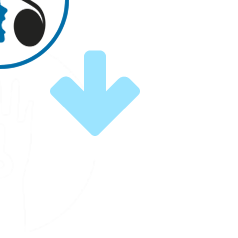
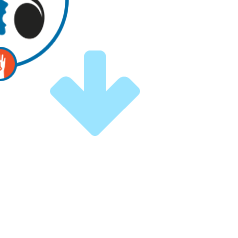
Nuova grafica e alcuni bug corretti

Changed region(s): [[0.0, 0.0, 0.2941, 0.3529]]

diff --git a/scripts/utils.js b/scripts/utils.js
@@ -8,33 +8,25 @@ var	my_jPlayer;
 
 $(document).ready(function() {
 
-	$(window).bind('keypress',function(e) {
-		var keypressed;
-		var keycharpressed;
+	$('#lower_right').focus();
 
-		if (window.event) {
-			keypressed = window.event.keyCode;
-		} else if (e) {
-			keypressed = e.which;
-		}
+	$(document).keydown(function(e) {
 
-		keycharpressed = String.fromCharCode(keypressed);
+		switch (e.keyCode) {
 		
-		switch (keycharpressed) {
-		
-			case 'q':
+			case 9:
 			naviga('upper_left');
 			break;
 
-			case 'w':
+			case 38:
 			naviga('upper_right');
 			break;
 
-			case 'a':
+			case 37:
 			naviga('lower_left');
 			break;
 
-			case 's':
+			case 40:
 			naviga('lower_right');
 			break;
 			
@@ -73,7 +65,6 @@ $(document).ready(function() {
 		naviga(this.id);
 	});
 	
-
     jQuery.getGiornale({
         url: './get_feed.php?testata=gofasano',
         success: function(feed) {
@@ -164,19 +155,28 @@ function naviga(buttonid) {
 	}
 }
 
-function blindtext_tts(testo) {
-	my_jPlayer.jPlayer("setMedia", {
-		mp3: "./audiobase/" + testo
-	}).jPlayer("play");
-}
-
 function blindnews_tts(testo) {
-// alert(testo);
  	$('#speech').val(testo);
-	$.post('ajax_festival.php', $('#speechform').serialize(), function(msg) {
-		my_jPlayer.jPlayer("setMedia", {
-			mp3: "./audio/" + msg
-		}).jPlayer("play");
-	});
+	
+	switch (ttse) {
+	
+		default:
+		case 'festival':
+		$.post('ajax_festival.php', $('#speechform').serialize(), function(msg) {
+			my_jPlayer.jPlayer("setMedia", {
+				mp3: "./audio/" + msg
+			}).jPlayer("play");
+		});
+		break;
+		
+		case 'ivona':
+		$.post('ajax_ivona.php', $('#speechform').serialize(), function(msg) {
+			my_jPlayer.jPlayer("setMedia", {
+				mp3: msg
+			}).jPlayer("play");
+		});
+		break;
+	}
+	
 	return false;
 }

diff --git a/index.php b/index.php
@@ -17,8 +17,7 @@
 
     You should have received a copy of the GNU General Public License
     along with "ISA" I Speak Again.  If not, see <http://www.gnu.org/licenses/>.
-*/ 
-
+*/
 include "functions.php";
 ?>
 <!DOCTYPE html>
@@ -35,6 +34,21 @@ include "functions.php";
 	<script type="text/javascript" src="scripts/jquery.jplayer.min.js"></script>
 	<script type="text/javascript" src="scripts/jquery.jplayer.inspector.js"></script>
 
+	<script type="text/javascript">
+	
+	var ttse = 'festival';
+	
+	<?
+	$ttse = 'festival';
+
+	if (isset($_GET['ttse']) && ($_GET['ttse'] == 'ivona')) {
+		$ttse = 'ivona';
+		echo "ttse = 'ivona';";
+	}
+	?>
+
+	</script>
+	
 	<script type="text/javascript" src="scripts/utils.js"></script>
 	<link href="css/strillone.css" rel="stylesheet" type="text/css"/>
 
@@ -53,7 +67,7 @@ include "functions.php";
 
 </div>
 
-<form name="speechform" id="speechform" method="post" action="ajax_festival.php">
+<form name="speechform" id="speechform" method="post" action="ajax_<? echo $ttse; ?>.php">
 	<input type="hidden" name="speech" id="speech" />
 	<input type="hidden" name="volume_scale" id="volume_scale" value="1"> 
 </form>

diff --git a/functions.php b/functions.php
@@ -17,13 +17,12 @@
 
     You should have received a copy of the GNU General Public License
     along with "ISA" I Speak Again.  If not, see <http://www.gnu.org/licenses/>.
-*/ 
+*/
 
 function trace($text) {
 	$handle = fopen("tmp/log.txt","a+");
-	fwrite($handle,$text . "\n");
+	fwrite($handle, "[Trace] ".$text."\n");
 	fclose($handle);
-	return;
 }
 
 ?>
